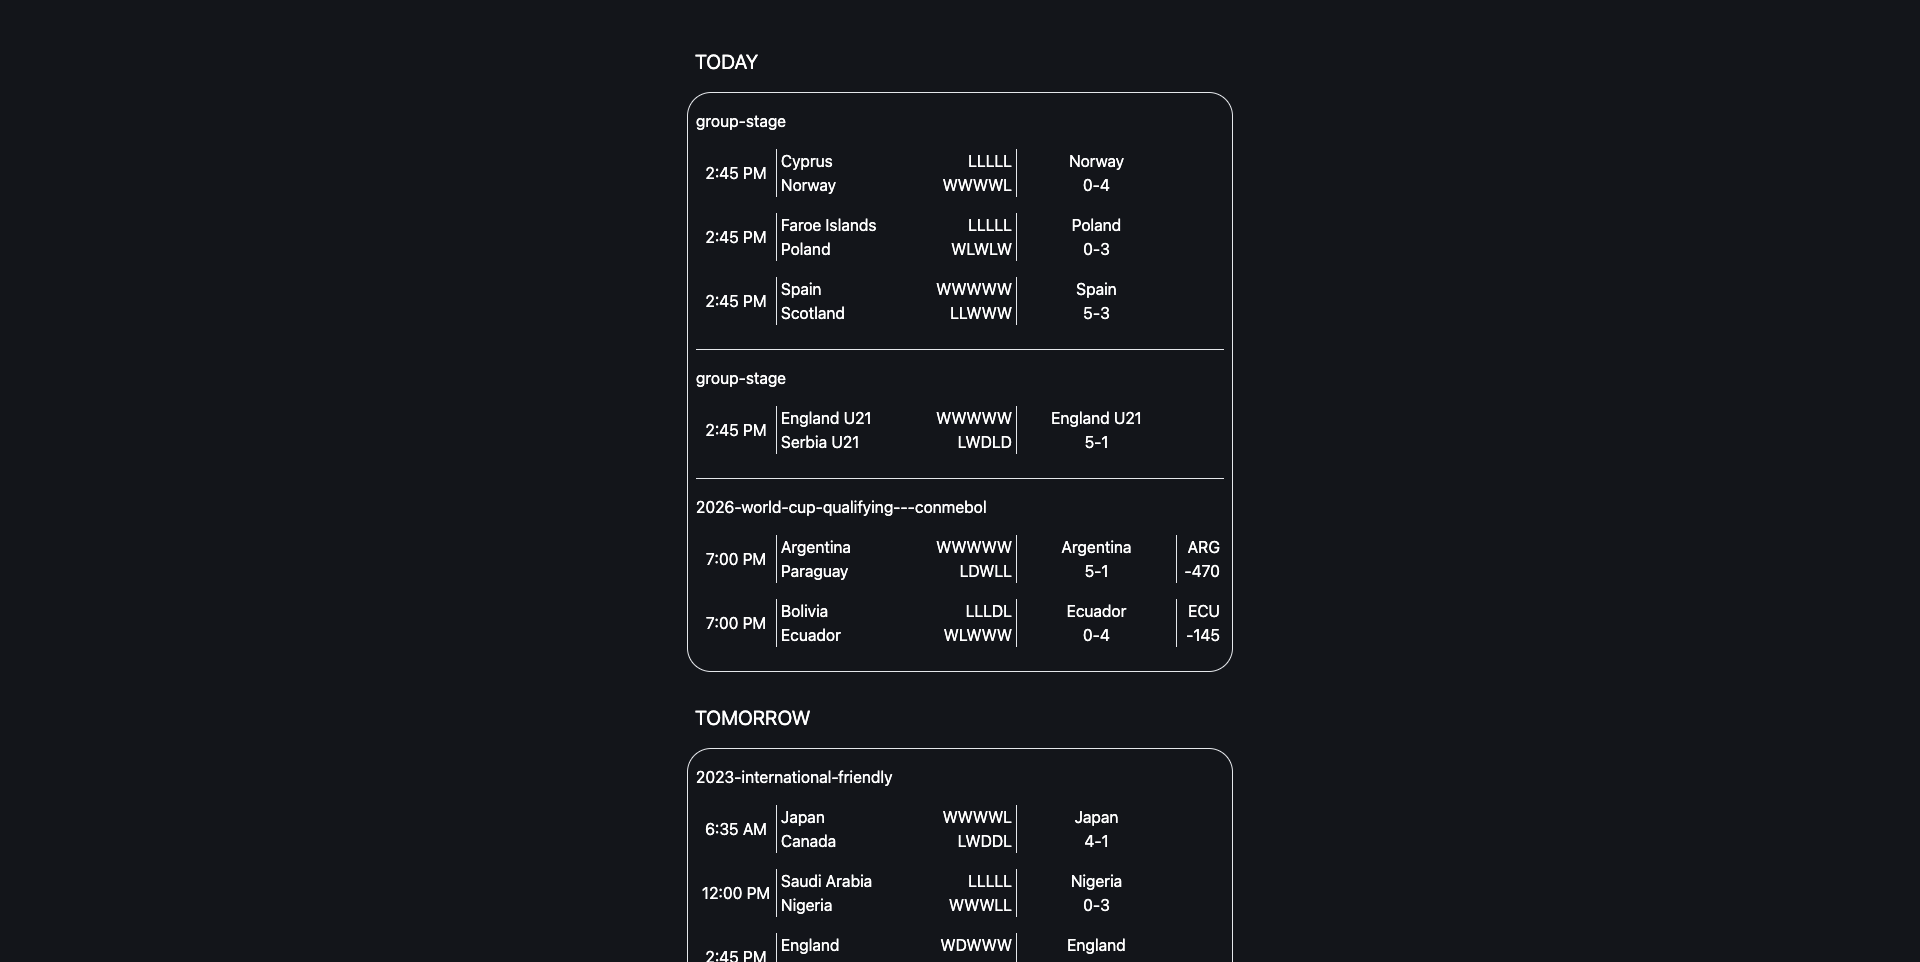
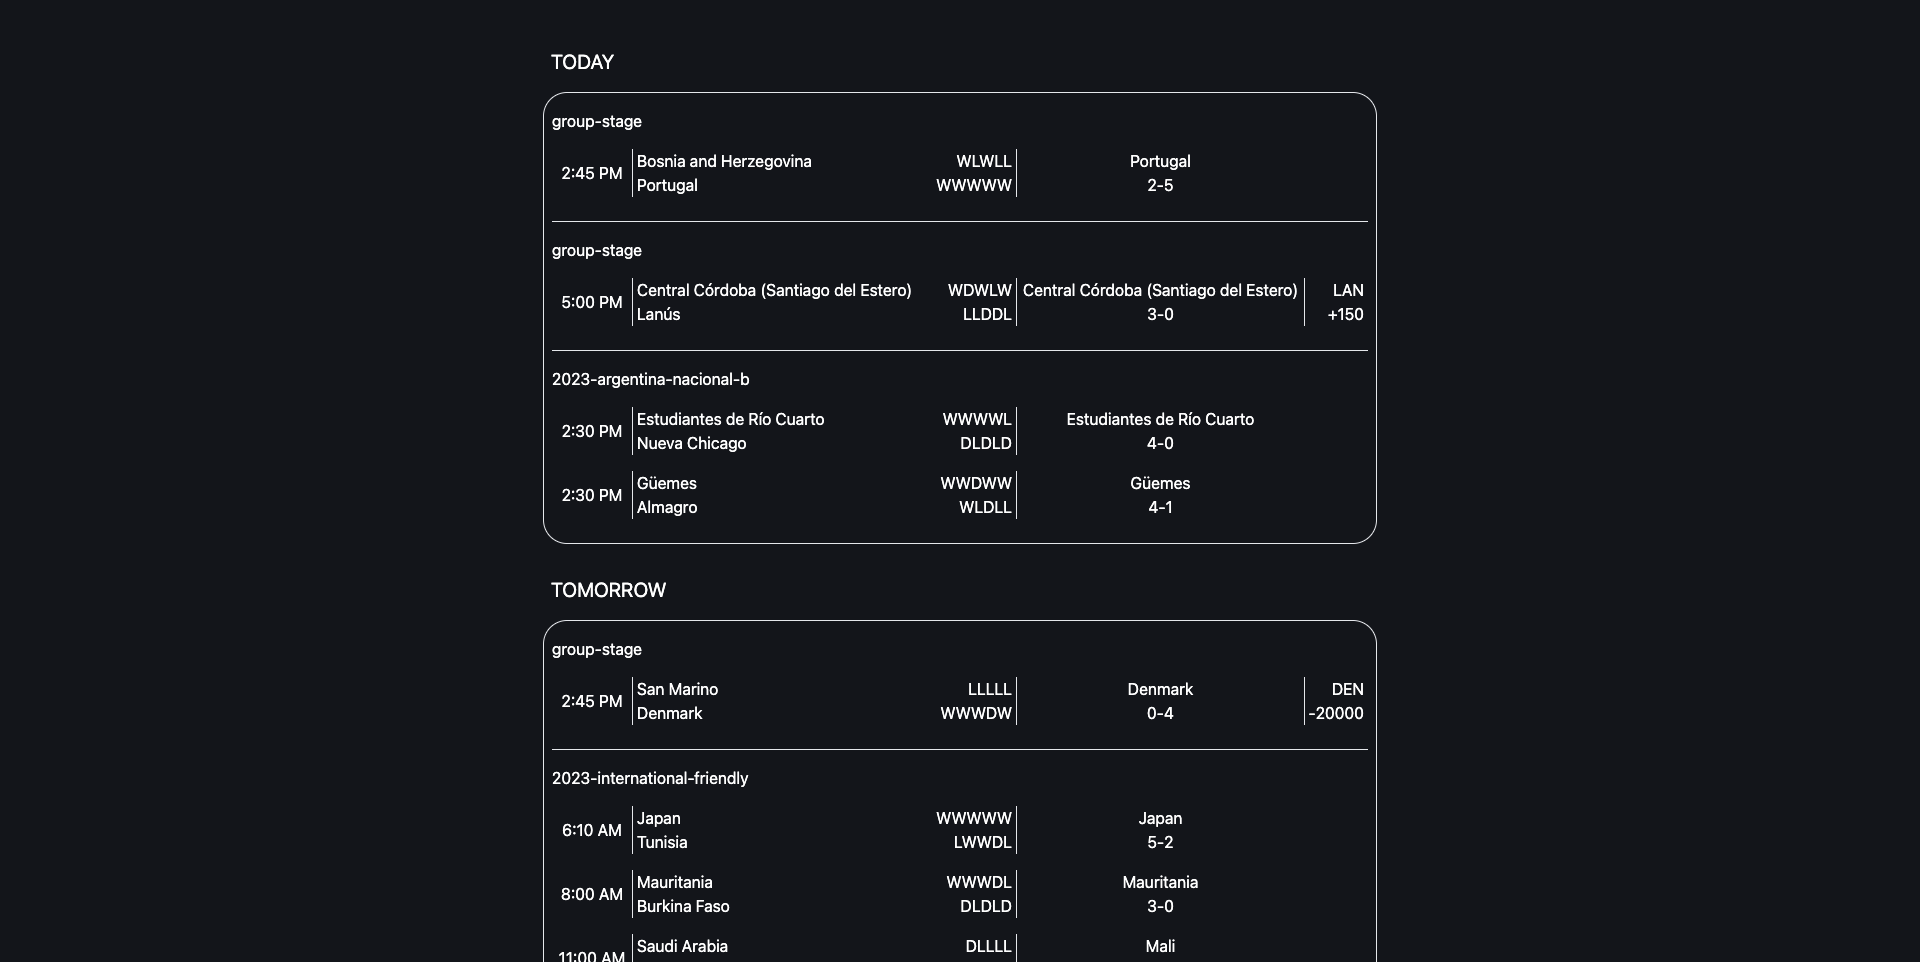
docs: update screenshot & link to project

diff --git a/README.md b/README.md
@@ -4,7 +4,7 @@ Fetches data from ESPN's hidden API endpoints for all current & next day's socce
 
 ![screenshot](screenshot.png)
 
-**Link to project:**
+**Link to project:** https://winners-table.netlify.app
 
 ## 🚀 How It's Made:
 
